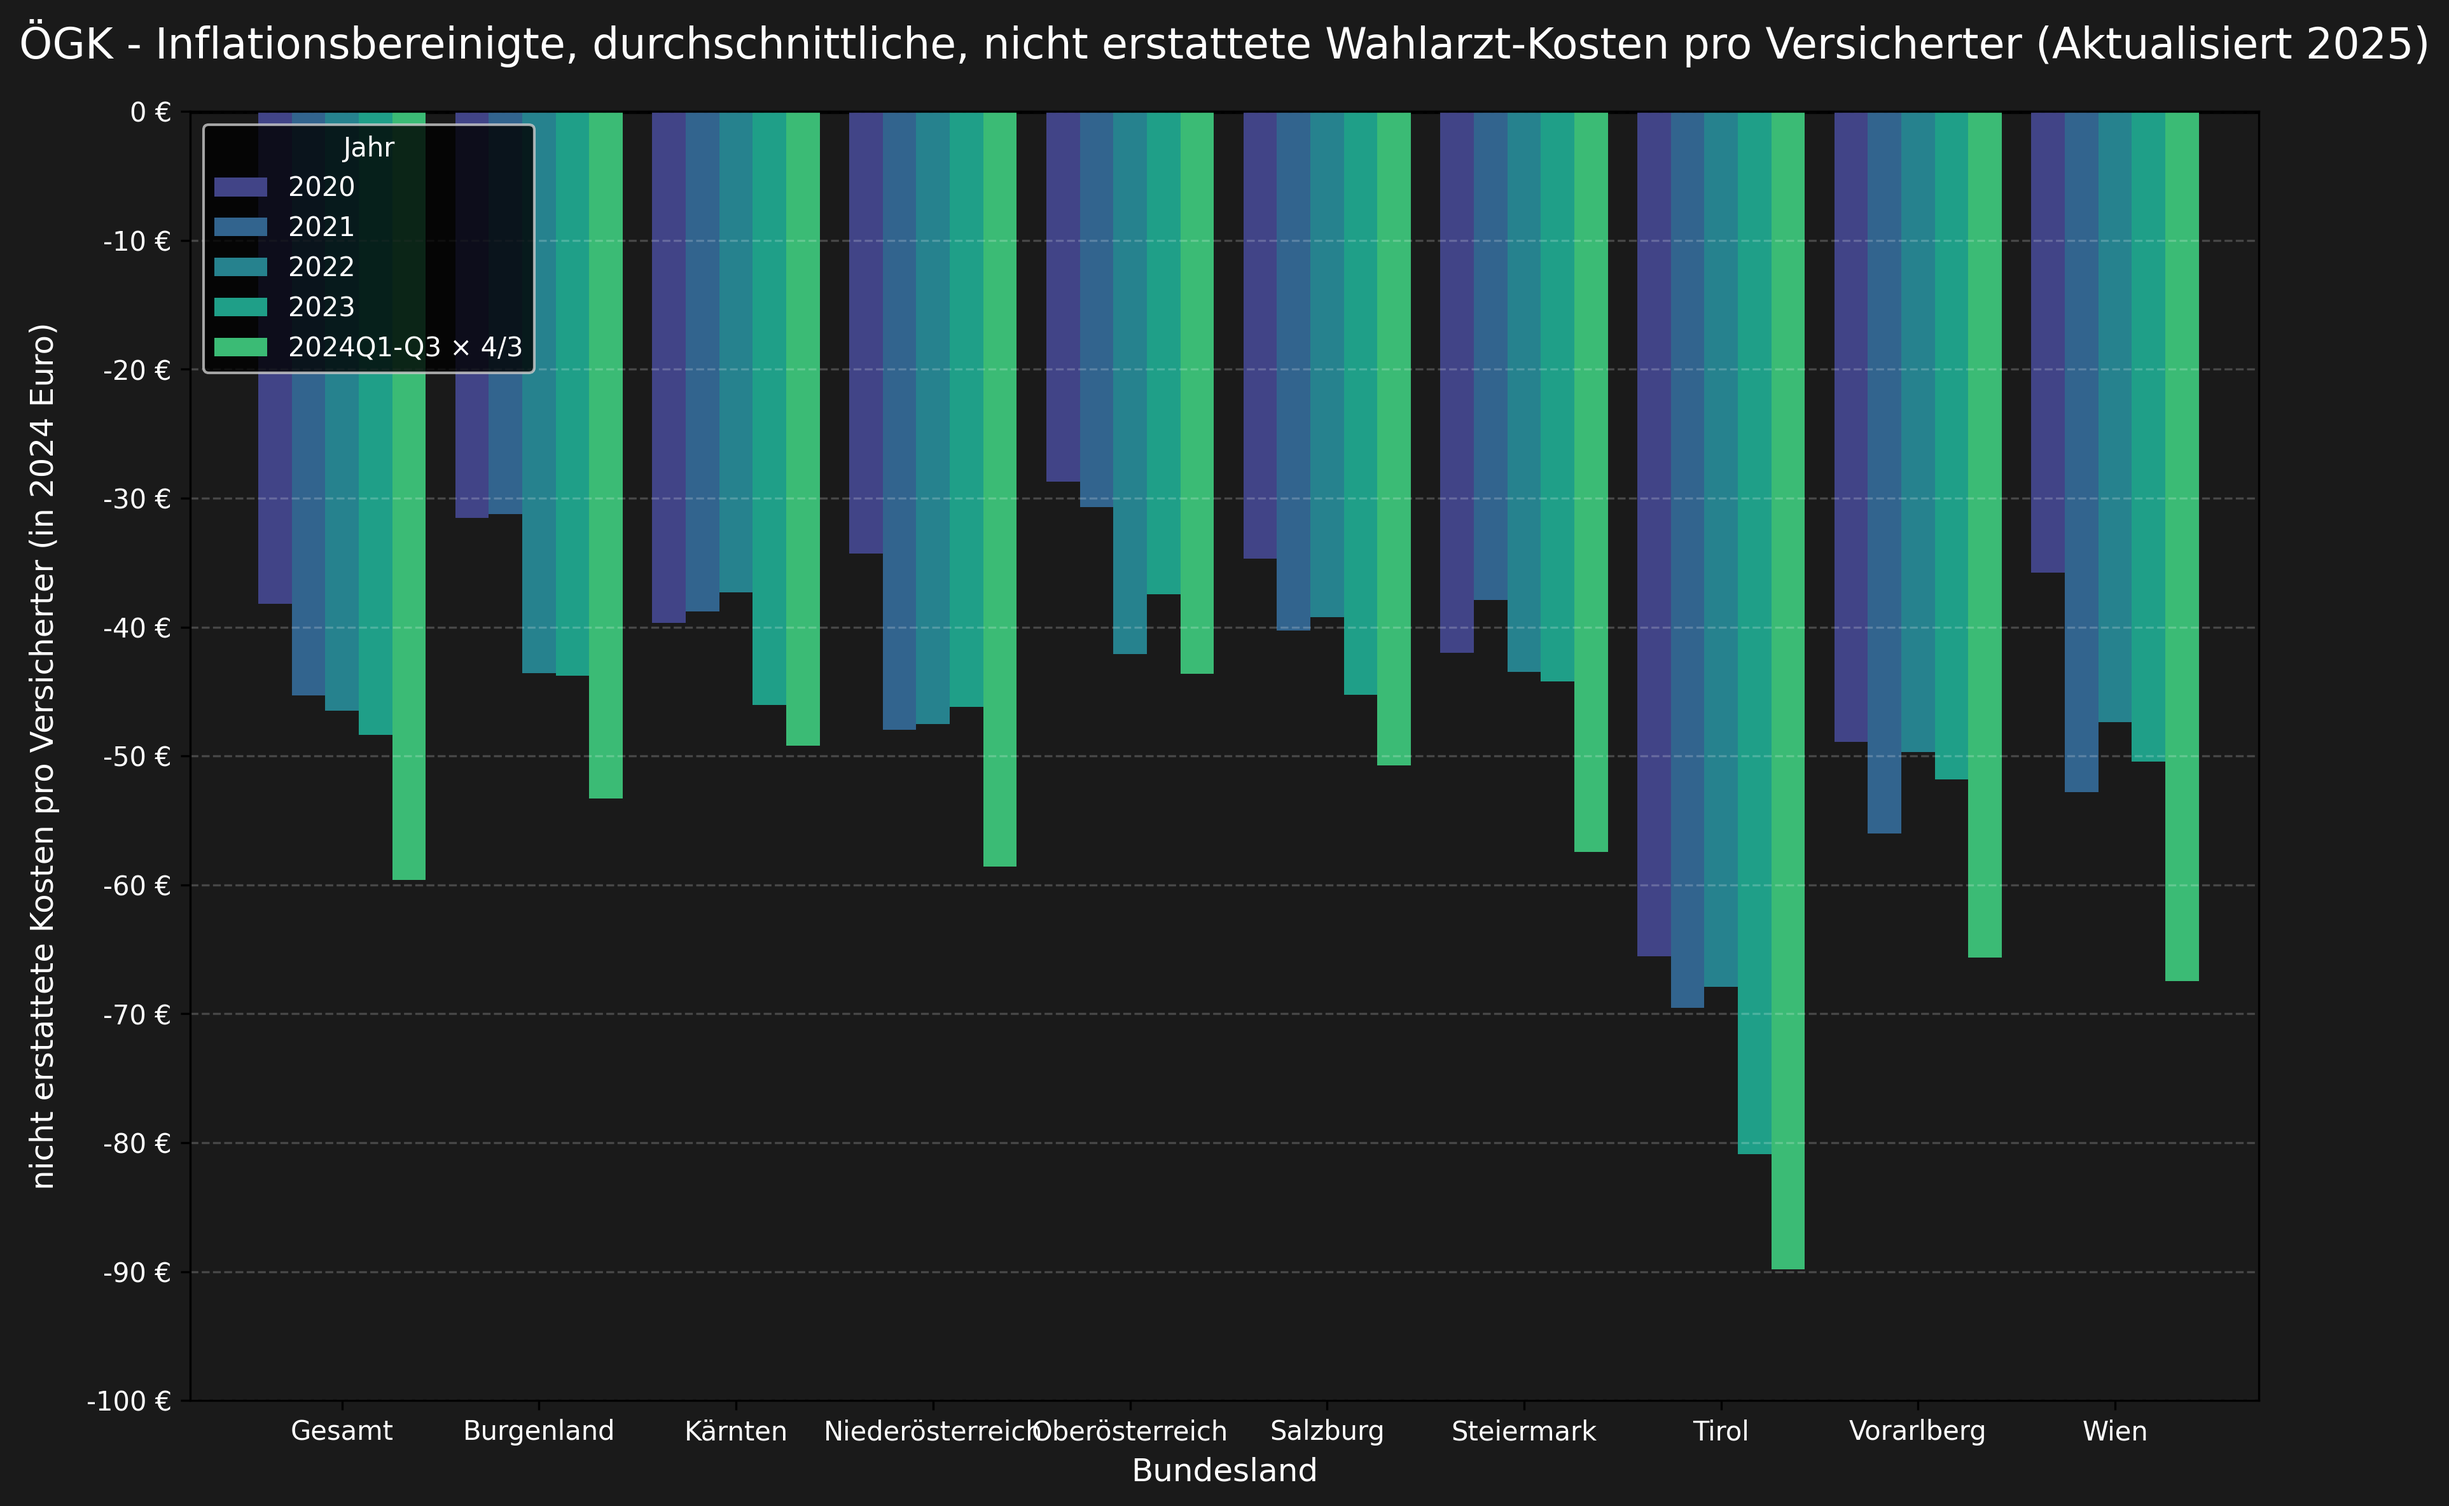
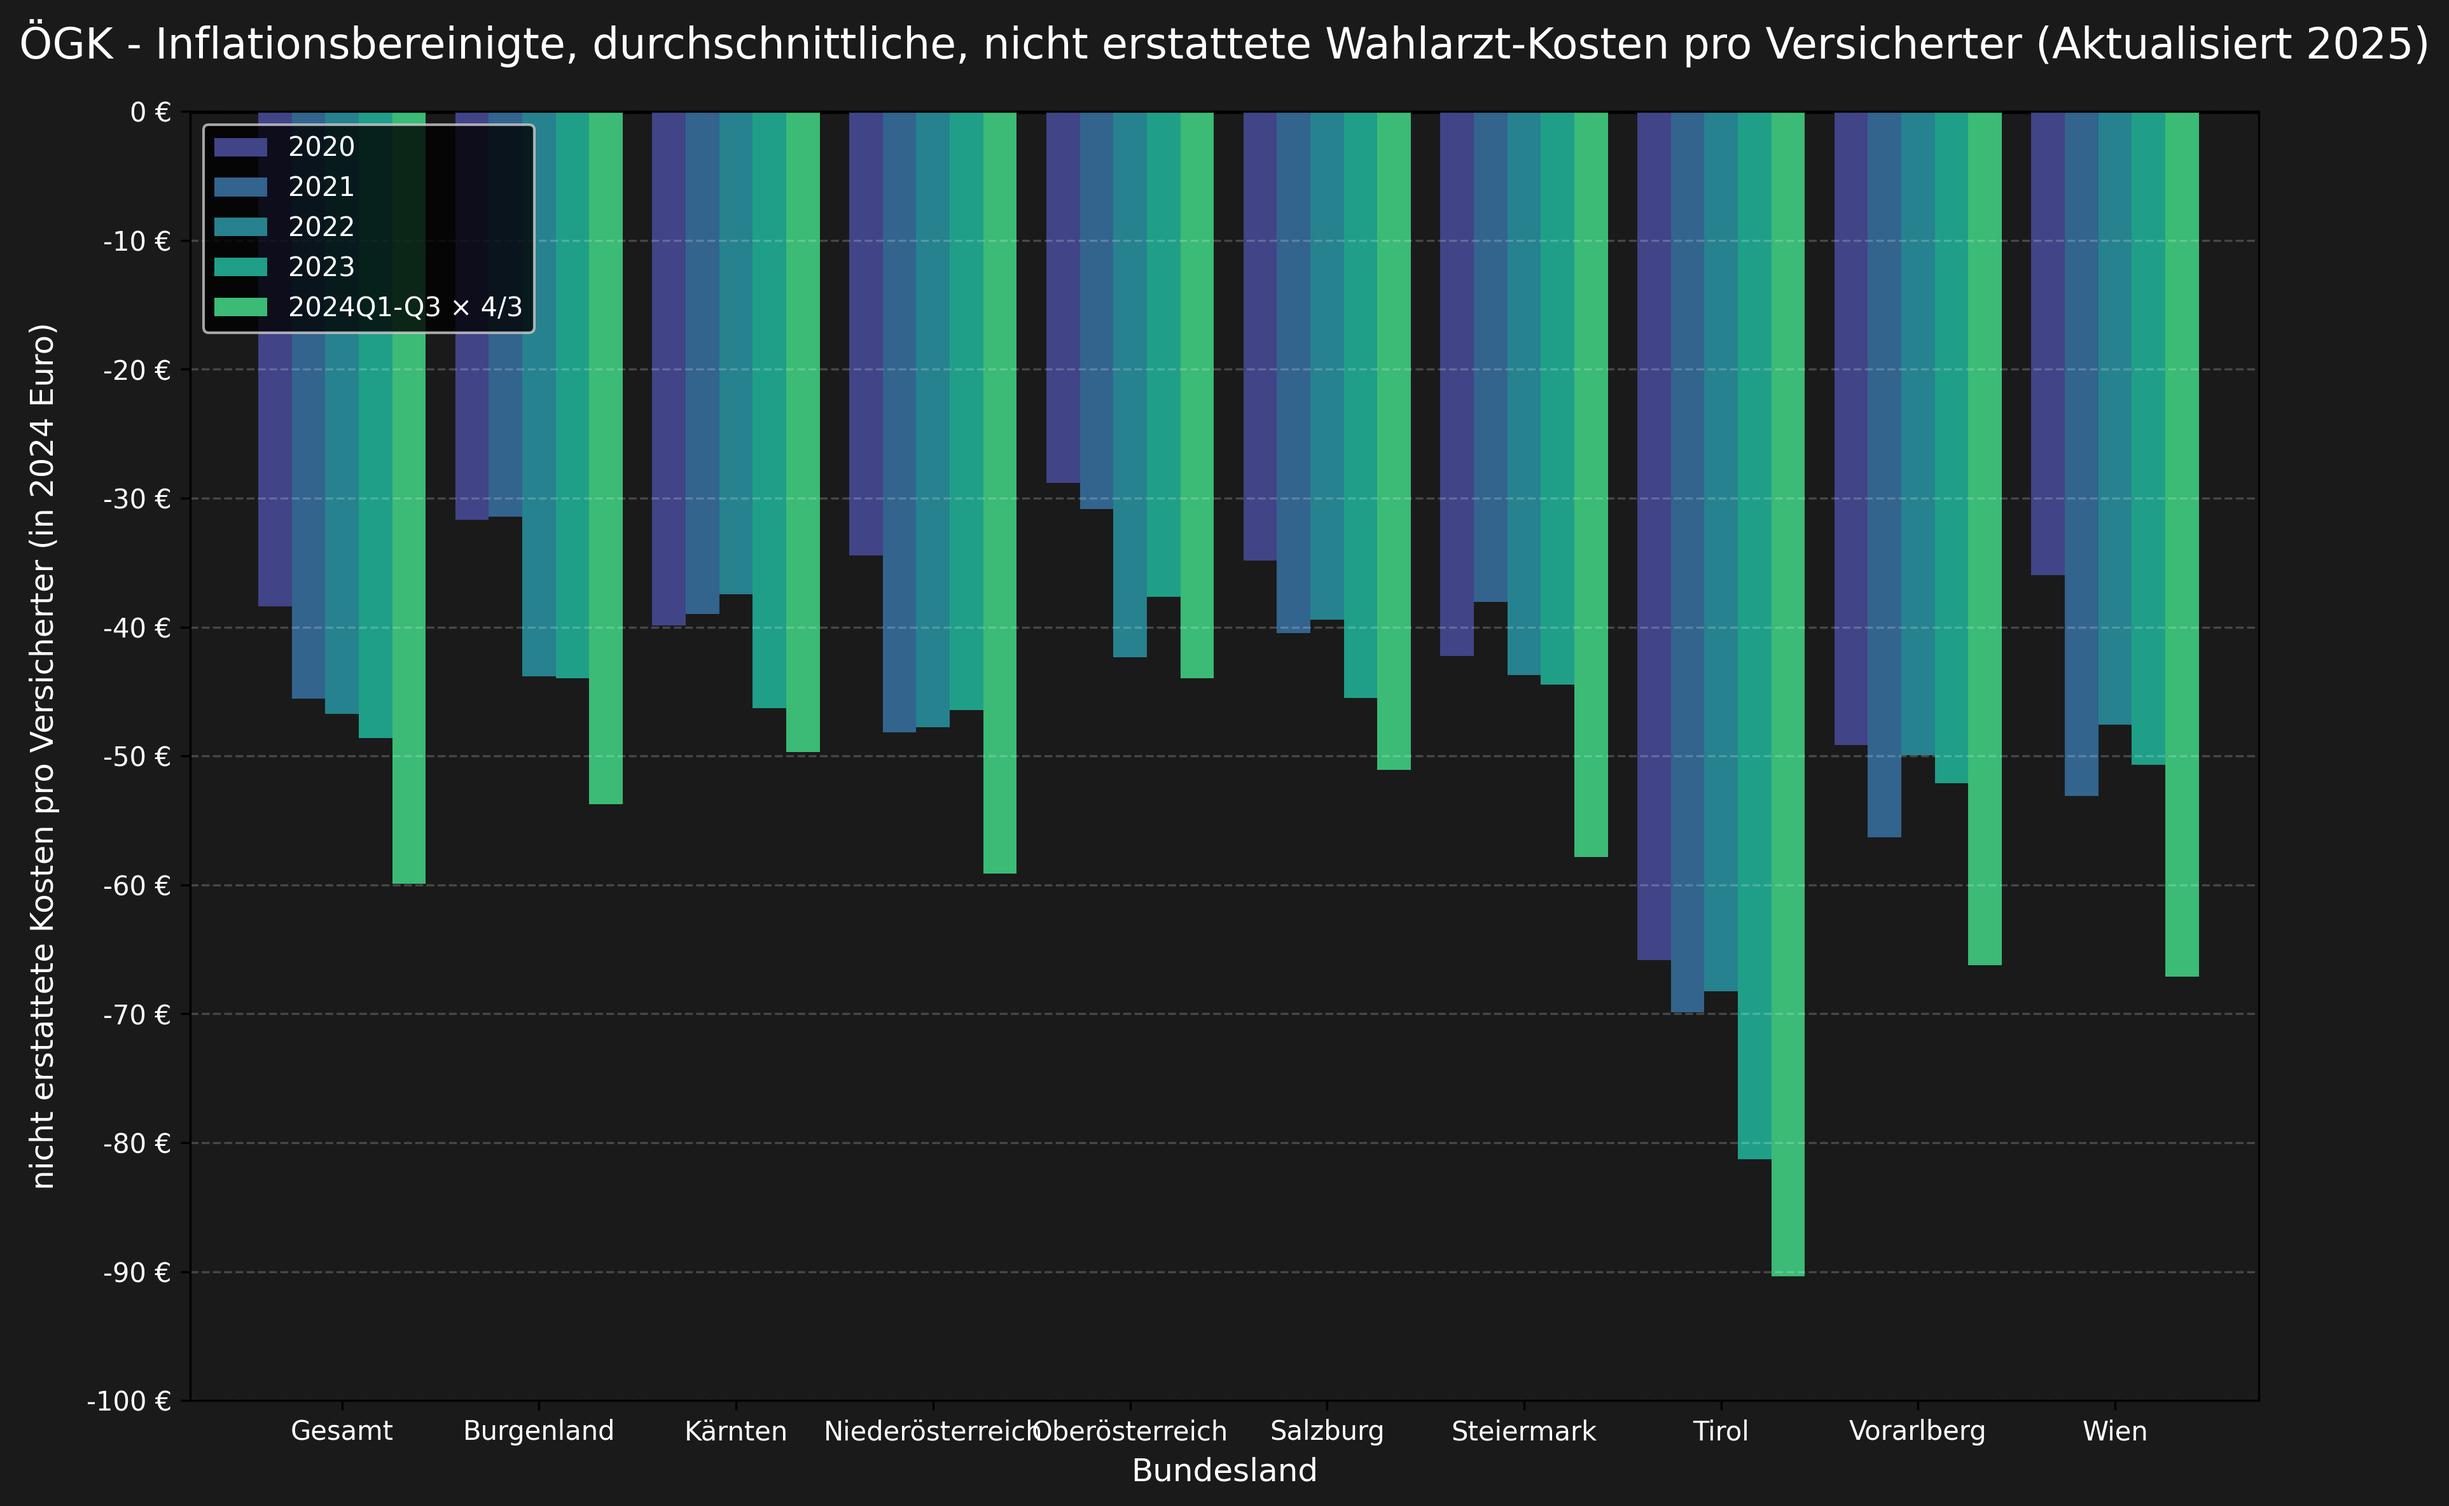
improved the oegk betraege weighted plot

Changed region(s): [[0.0623, 0.0925, 0.2182, 0.2467]]

diff --git a/visualize/plot_oegk_betraege_weighted.py b/visualize/plot_oegk_betraege_weighted.py
@@ -96,8 +96,20 @@ INSURED_POPULATION = {
         "ÖGK-V": 335023,
         "Gesamt": 7484358,
     },
-    "2024": lambda: {k: int(v * 1.008) for k, v in INSURED_POPULATION["2023"].items()},  # 0.8% growth from 2023
-    "2024Q1-Q3": lambda: {k: int(v * 1.008) for k, v in INSURED_POPULATION["2023"].items()},  # same growth as we extrapolate the whole year
+    "2024": {
+        "ÖGK-W": 1825483,
+        "ÖGK-N": 1276395,
+        "ÖGK-B": 223412,
+        "ÖGK-O": 1292343,
+        "ÖGK-ST": 1021741,
+        "ÖGK-K": 442232,
+        "ÖGK-S": 479094,
+        "ÖGK-T": 611390,
+        "ÖGK-V": 334669,
+        "Gesamt": 7506759, # Die Summe wurde errechnet aus Konsistenzgründen
+
+    },
+    "2024Q1-Q3": lambda: {k: int(v) for k, v in INSURED_POPULATION["2024"].items()},  # Daten übernommen, weil Extrapolation
     "2025": lambda: {k: int(v * 1.008) for k, v in INSURED_POPULATION["2024"]().items()},  # 0.8% growth from 2024
 }
 
@@ -309,9 +321,9 @@ def create_plot(input_file, dark_mode=True, is_updated=False, plot_type="betraeg
 
     # Add legend
     handles, labels = ax.get_legend_handles_labels()
-    # Remove duplicate labels
-    by_label = dict(zip(labels, handles))
-    ax.legend(by_label.values(), by_label.keys(), title="Jahr", loc="upper left")
+    # Remove duplicate labels and sort lexicographically
+    by_label = dict(sorted(zip(labels, handles)))
+    ax.legend(by_label.values(), by_label.keys(), loc="upper left")
 
     # Add note about missing data for original dataset
     if not is_updated:
